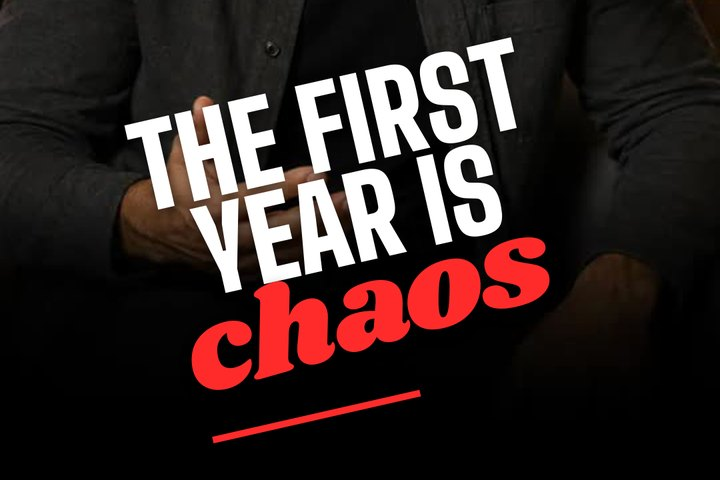
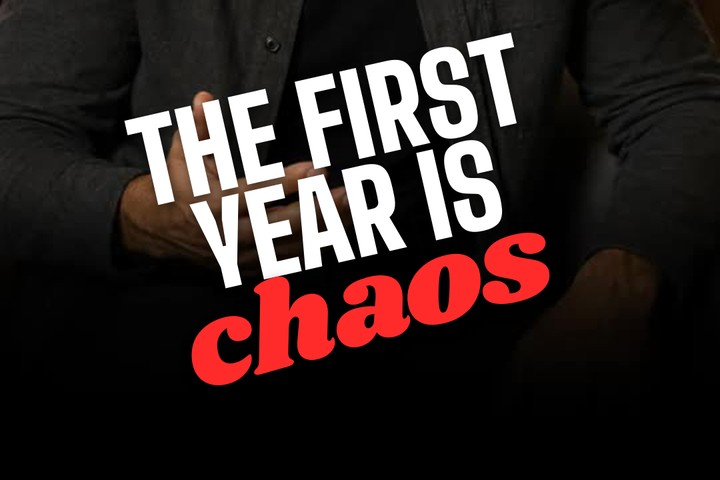
fix(captions): remove Arthouse underlines

diff --git a/packages/caption-scene/src/templates/arthouse.ts b/packages/caption-scene/src/templates/arthouse.ts
@@ -3,20 +3,18 @@ import { type Frames, EASES, clamp, lerp, prog } from "../ease";
 import { sampleFrames } from "../frames";
 import type { SceneCue, SceneInput, SceneProgram } from "../input";
 import { clampToSafeArea, cueDirection, fitScale, greedyRows, rowVisualOrder, sceneSpace } from "../layout";
-import { type ColourFrames, type Piece, type ShapePiece, type TextPiece, SCENE_PERSPECTIVE_PX } from "../scene";
-import { rectPath } from "../shapes";
+import { type ColourFrames, type Piece, type TextPiece, SCENE_PERSPECTIVE_PX } from "../scene";
 
 /**
  * Arthouse (`samples/templates/m13-cinema.js`): indie-film title cards as captions. Tight condensed caps (Big Shoulders
  * Display Black) on a tilted baseline; each cue swings in from flat in perspective with a brief cyan / magenta fringe, holds
  * with a slow drift and swings out. Words land on their spoken time in acid yellow and cool to white once said; the key word
- * is a bigger red groovy serif (Shrikhand) overlapping the line; a thin red rule wipes in under the last row.
+ * is a bigger red groovy serif (Shrikhand) overlapping the line.
  *
  * Geometry is the sample's, read in Chrome (`probe-sample.ts`): caps 196 / 168 / 148 px by the cue's character count (line box
  * 0.86 em, baseline 0.811 em in it), hero 1.08x (line box 0.72 em, baseline 0.6575 em, margins -0.04 size), words 0.2 size apart,
- * rows wrapped at 820 px and baseline-aligned like the flex row, the rule 1.3 size by 10 px under 0.4 / 0.26 size, the block
- * centred on y 1290. Every word and the rule are posed through the block's transform (translate, perspective 1100, rotateY,
- * rotate, scale about its centre), the way a CSS parent would pose its children.
+ * rows wrapped at 820 px and baseline-aligned like the flex row, the block centred on y 1290. Every word is posed through the
+ * block's transform (translate, perspective 1100, rotateY, rotate, scale about its centre), the way a CSS parent would pose its children.
  *
  * What changed from the sample, and why (Gallery 2 brief and spec section 7):
  * - Perspective. A piece has no parent, so each word's pivot goes through the block's projection (perspective 1100 px, in
@@ -28,16 +26,16 @@ import { rectPath } from "../shapes";
  *   safe area with its tilt (up to 1.3x the sample's), 1.06x exit scale, 52 px of drift and the fringe's 12 px offset counted.
  * - Fringe: the two coloured text-shadows are two coloured copies under each word (a piece cannot animate a shadow), offset along
  *   the word's own baseline; they exist only while the fringe does (the swing, each word's arrival, the exit).
- * - The block's `drop-shadow(0 8px 18px)` is a blurred dark layer under each word and the rule (blur sigma 9, half the CSS radius).
+ * - The block's `drop-shadow(0 8px 18px)` is a blurred dark layer under each word (blur sigma 9, half the CSS radius).
  * - Recurring variants (the sample's cues are one fixed look): the swing alternates side (rotateY +38 / -38, drift and exit
  *   mirror), the tilt cycles -12 / -9 / -14 / -7 degrees with a hash jitter (hero cues and plain cues each own a counter), the
- *   hero's rest tilt cycles -3 / -5 / -2 / -4, the rule's width (1.3 / 0.9 / 1.9 size) and place (centre / leading / trailing
- *   under the last row) cycle by cue number, and the fringe's two colours swap sides by hash. A cue with no hero keeps the
- *   caps, the fringe, the rule and the drift (its lightest recurring motion is the same swing and rule).
+ *   hero's rest tilt cycles -3 / -5 / -2 / -4, and the fringe's two colours swap sides by hash. A cue with no hero keeps the
+ *   caps, the fringe and the drift.
+ * - The underline is removed at the owner's request. The block keeps its bottom padding so the words retain their placement.
  * - Exit: the 140 ms swing-out never starts before the last word has landed and been readable for 150 ms (it shortens, down to
  *   60 ms, and may run 60 ms into the next cue in fast speech).
  * - Cased scripts only (Latin, Cyrillic, Greek) are upper-cased and spaced; other scripts keep their letters, start 25 % smaller
- *   and rows grow to their ink. Rows of a right-to-left cue run right to left and the rule wipes from the right.
+ *   and rows grow to their ink. Rows of a right-to-left cue run right to left.
  */
 
 export const ARTHOUSE_DEMO: DemoScript = {
@@ -59,8 +57,6 @@ const FRINGE_B = "#FF2BD6";
 const SHADOW = "#000000";
 const TILTS = [-12, -9, -14, -7] as const;
 const HERO_REST = [-3, -5, -2, -4] as const;
-const RULE_WIDTHS = [1.3, 0.9, 1.9] as const;
-const RULE_PLACES = ["center", "lead", "trail"] as const;
 /** Line box and baseline of Big Shoulders at `line-height: 0.86` and of Shrikhand at 0.72 (probe, em of the face's own size). */
 const BODY_LINE = 0.86;
 const BODY_ABOVE = 0.811;
@@ -69,7 +65,6 @@ const HERO_ABOVE = 0.6575;
 const HERO_SCALE = 1.08;
 const HERO_MARGIN = 0.04;
 const WORD_GAP = 0.2;
-const RULE_H = 10;
 const PIVOT_Y = 0.7;
 const SAMPLE_PERSPECTIVE = 1100;
 const SWING_MS = 480;
@@ -153,9 +148,6 @@ function buildCue(cue: SceneCue, cueNumber: number, counters: { hero: number; pl
   let size = arthouseSize(chars) * u * (nonCased ? NON_CASED_SCALE : 1);
   size *= fitScale(Math.max(...words.map((_, at) => outerOf(at, size))), maxW);
 
-  const ruleWidth = RULE_WIDTHS[(cueNumber + 1) % RULE_WIDTHS.length]!;
-  const rulePlace = RULE_PLACES[cueNumber % RULE_PLACES.length]!;
-
   const layout = (sz: number) => {
     const gap = WORD_GAP * sz;
     const rows: Row[] = greedyRows(words.map((_, at) => outerOf(at, sz)), gap, maxW).map((row) => {
@@ -184,12 +176,8 @@ function buildCue(cue: SceneCue, cueNumber: number, counters: { hero: number; pl
       row.top = y;
       y += row.above + row.below;
     }
-    const ruleMargin = sz * (hasHero ? 0.4 : 0.26);
-    const rowsBottom = y;
-    const ruleTop = y + ruleMargin;
-    const height = ruleTop + RULE_H * u;
-    const ruleW = Math.min(ruleWidth * sz, safeW);
-    const widest = Math.max(...rows.map((row) => row.width), ruleW);
+    const height = y + sz * (hasHero ? 0.4 : 0.26) + 10 * u;
+    const widest = Math.max(...rows.map((row) => row.width));
     for (const row of rows) {
       let x = -row.width / 2;
       for (const item of row.items) {
@@ -205,7 +193,7 @@ function buildCue(cue: SceneCue, cueNumber: number, counters: { hero: number; pl
         item.originDy = item.qy - (row.top + row.above - height / 2);
       }
     }
-    return { rows, height, widest, ruleTop, ruleW, rowsBottom };
+    return { rows, height, widest };
   };
 
   let laid = layout(size);
@@ -223,7 +211,7 @@ function buildCue(cue: SceneCue, cueNumber: number, counters: { hero: number; pl
     size *= k * 0.99;
     laid = layout(size);
   }
-  const { rows, height, ruleW, ruleTop } = laid;
+  const { rows } = laid;
 
   // --- the timeline: the swing in, the drift, the exit (held until the last word has been readable) ---
   const ats = words.map((word) => word.startMs - 60);
@@ -418,35 +406,6 @@ function buildCue(cue: SceneCue, cueNumber: number, counters: { hero: number; pl
     }
   }
 
-  // --- the rule: wipes in under the last row with that row's first word ---
-  const lastRow = rows[rows.length - 1]!;
-  const ruleAt = Math.min(...lastRow.items.map((item) => ats[item.index]!)) - 60;
-  const ruleFrom = ruleAt + 8;
-  if (exitTo > ruleFrom + 1) {
-    const lead = rtl ? lastRow.width / 2 - ruleW : -lastRow.width / 2;
-    const trail = rtl ? -lastRow.width / 2 : lastRow.width / 2 - ruleW;
-    const left = rulePlace === "center" ? -ruleW / 2 : rulePlace === "lead" ? lead : trail;
-    const pivotX = rtl ? left + ruleW : left;
-    const qy = ruleTop + (RULE_H * u) / 2 - height / 2;
-    const wipe = (t: number) => EASES.outExpo(prog(t, ruleAt, 340));
-    const get = memo((t) => pose(t, pivotX, qy, { rot: 0, sx: Math.max(0.0001, wipe(t)), sy: 1 }));
-    const rule: ShapePiece = {
-      id: `arthouse:${cueNumber}:rule`,
-      kind: "shape",
-      z: band + 2,
-      fromMs: ruleFrom,
-      toMs: exitTo,
-      track: {
-        ...poseTracks(get, ruleFrom, exitTo, [ruleAt + 340]),
-        o: track((t) => 1 - out(t), ruleFrom, exitTo, [], 0.01),
-      },
-      origin: { dx: rtl ? ruleW : 0, dy: (RULE_H * u) / 2 },
-      path: rectPath(0, 0, ruleW, RULE_H * u),
-      fill: { colour: input.colours.highlight },
-      shadows: shadow,
-    };
-    pieces.push(rule);
-  }
   // The clamp samples every 16 ms and the key word's spring peaks between samples: keep a few px inside the safe area.
   const margin = 6 * u;
   return clampToSafeArea(pieces, { x1: safe.x1 + margin, y1: safe.y1 + margin, x2: safe.x2 - margin, y2: safe.y2 - margin }, input.measure);

diff --git a/packages/caption-scene/src/arthouse.test.ts b/packages/caption-scene/src/arthouse.test.ts
@@ -1,7 +1,7 @@
 import { describe, expect, test } from "bun:test";
 import { demoCues, parseDemoScript, sceneEdgeDemo } from "./demo";
 import type { SceneCue } from "./input";
-import { type Piece, type ShapePiece, type TextPiece, evaluatePiece, sceneBoundsAt } from "./scene";
+import { type Piece, type TextPiece, evaluatePiece, sceneBoundsAt } from "./scene";
 import { ARTHOUSE_DEMO, arthouseHash, arthouseProgram, arthouseSize } from "./templates/arthouse";
 import { fakeMeasure, sceneInput } from "./test-support";
 
@@ -50,18 +50,6 @@ describe("Arthouse geometry", () => {
     expect(word.origin!.dy).toBeCloseTo(0.602 * 196 - 0.811 * 196, 3);
   });
 
-  test("a red rule sits under the last row and wipes in with that row's first word", () => {
-    const rule = need<ShapePiece>(find(scene, "2:rule"));
-    expect(rule.fill!.colour).toBe("#FF2B2B");
-    const last = cues[2]!.words[0]!;
-    expect(rule.fromMs).toBeGreaterThanOrEqual(last.startMs - 60);
-    const mid = evaluatePiece(rule, rule.fromMs + 100);
-    const rest = evaluatePiece(rule, rule.fromMs + 700);
-    expect(mid.sx).toBeLessThan(rest.sx);
-    expect(rest.sx).toBeCloseTo(1, 0);
-    const word = evaluatePiece(need<TextPiece>(find(scene, "2:w2")), rule.fromMs + 700);
-    expect(rest.y).toBeGreaterThan(word.y);
-  });
 });
 
 describe("Arthouse motion", () => {
@@ -135,10 +123,10 @@ describe("Arthouse across a whole clip", () => {
     return demoCues({ lines, options: { rate: 290, cueGap: gap, tail: 800, lead: 350 } }).cues;
   };
 
-  test("every cue of a 24-cue clip keeps its rule, fringe, words and drift (no cue-indexed tables)", () => {
+  test("every cue of a 24-cue clip keeps its fringe, words and drift without an underline", () => {
     const list = build(long(24));
     for (let n = 0; n < 24; n++) {
-      expect(find(list, `${n}:rule`)).toBeDefined();
+      expect(find(list, `${n}:rule`)).toBeUndefined();
       expect(list.filter((piece) => piece.id.startsWith(`arthouse:${n}:f`)).length).toBeGreaterThanOrEqual(4);
       expect(list.filter((piece) => /^arthouse:\d+:w\d+$/.test(piece.id) && piece.id.split(":")[1] === String(n)).length).toBeGreaterThanOrEqual(4);
     }
@@ -148,18 +136,14 @@ describe("Arthouse across a whole clip", () => {
     expect(Math.hypot(b.x - a.x, b.y - a.y)).toBeGreaterThan(0.5);
   });
 
-  test("the look varies cue to cue: swing side, tilt, rule width and place, hero tilt", () => {
+  test("the look varies cue to cue: swing side and tilt", () => {
     const list = build(long(24));
     const words = list.filter((piece): piece is TextPiece => piece.kind === "text" && /^arthouse:\d+:w1$/.test(piece.id));
     const sides = new Set(words.map((piece) => Math.sign(evaluatePiece(piece, piece.fromMs + 60).ry)));
     expect(sides).toEqual(new Set([1, -1]));
     const tilts = new Set(words.map((piece) => Math.round(evaluatePiece(piece, piece.fromMs + 700).rz)));
     expect(tilts.size).toBeGreaterThanOrEqual(5);
-    const rules = list.filter((piece): piece is ShapePiece => piece.id.endsWith(":rule"));
-    const widths = new Set(rules.map((piece) => Math.round(Math.max(...piece.path.flatMap((cmd) => (cmd[0] === "Z" ? [] : [cmd[1] as number]))))));
-    expect(widths.size).toBeGreaterThanOrEqual(5);
-    const places = new Set(rules.map((piece) => Math.round(evaluatePiece(piece, piece.fromMs + 700).x / 20)));
-    expect(places.size).toBeGreaterThanOrEqual(3);
+
   });
 
   test("the hash is deterministic and spreads", () => {
